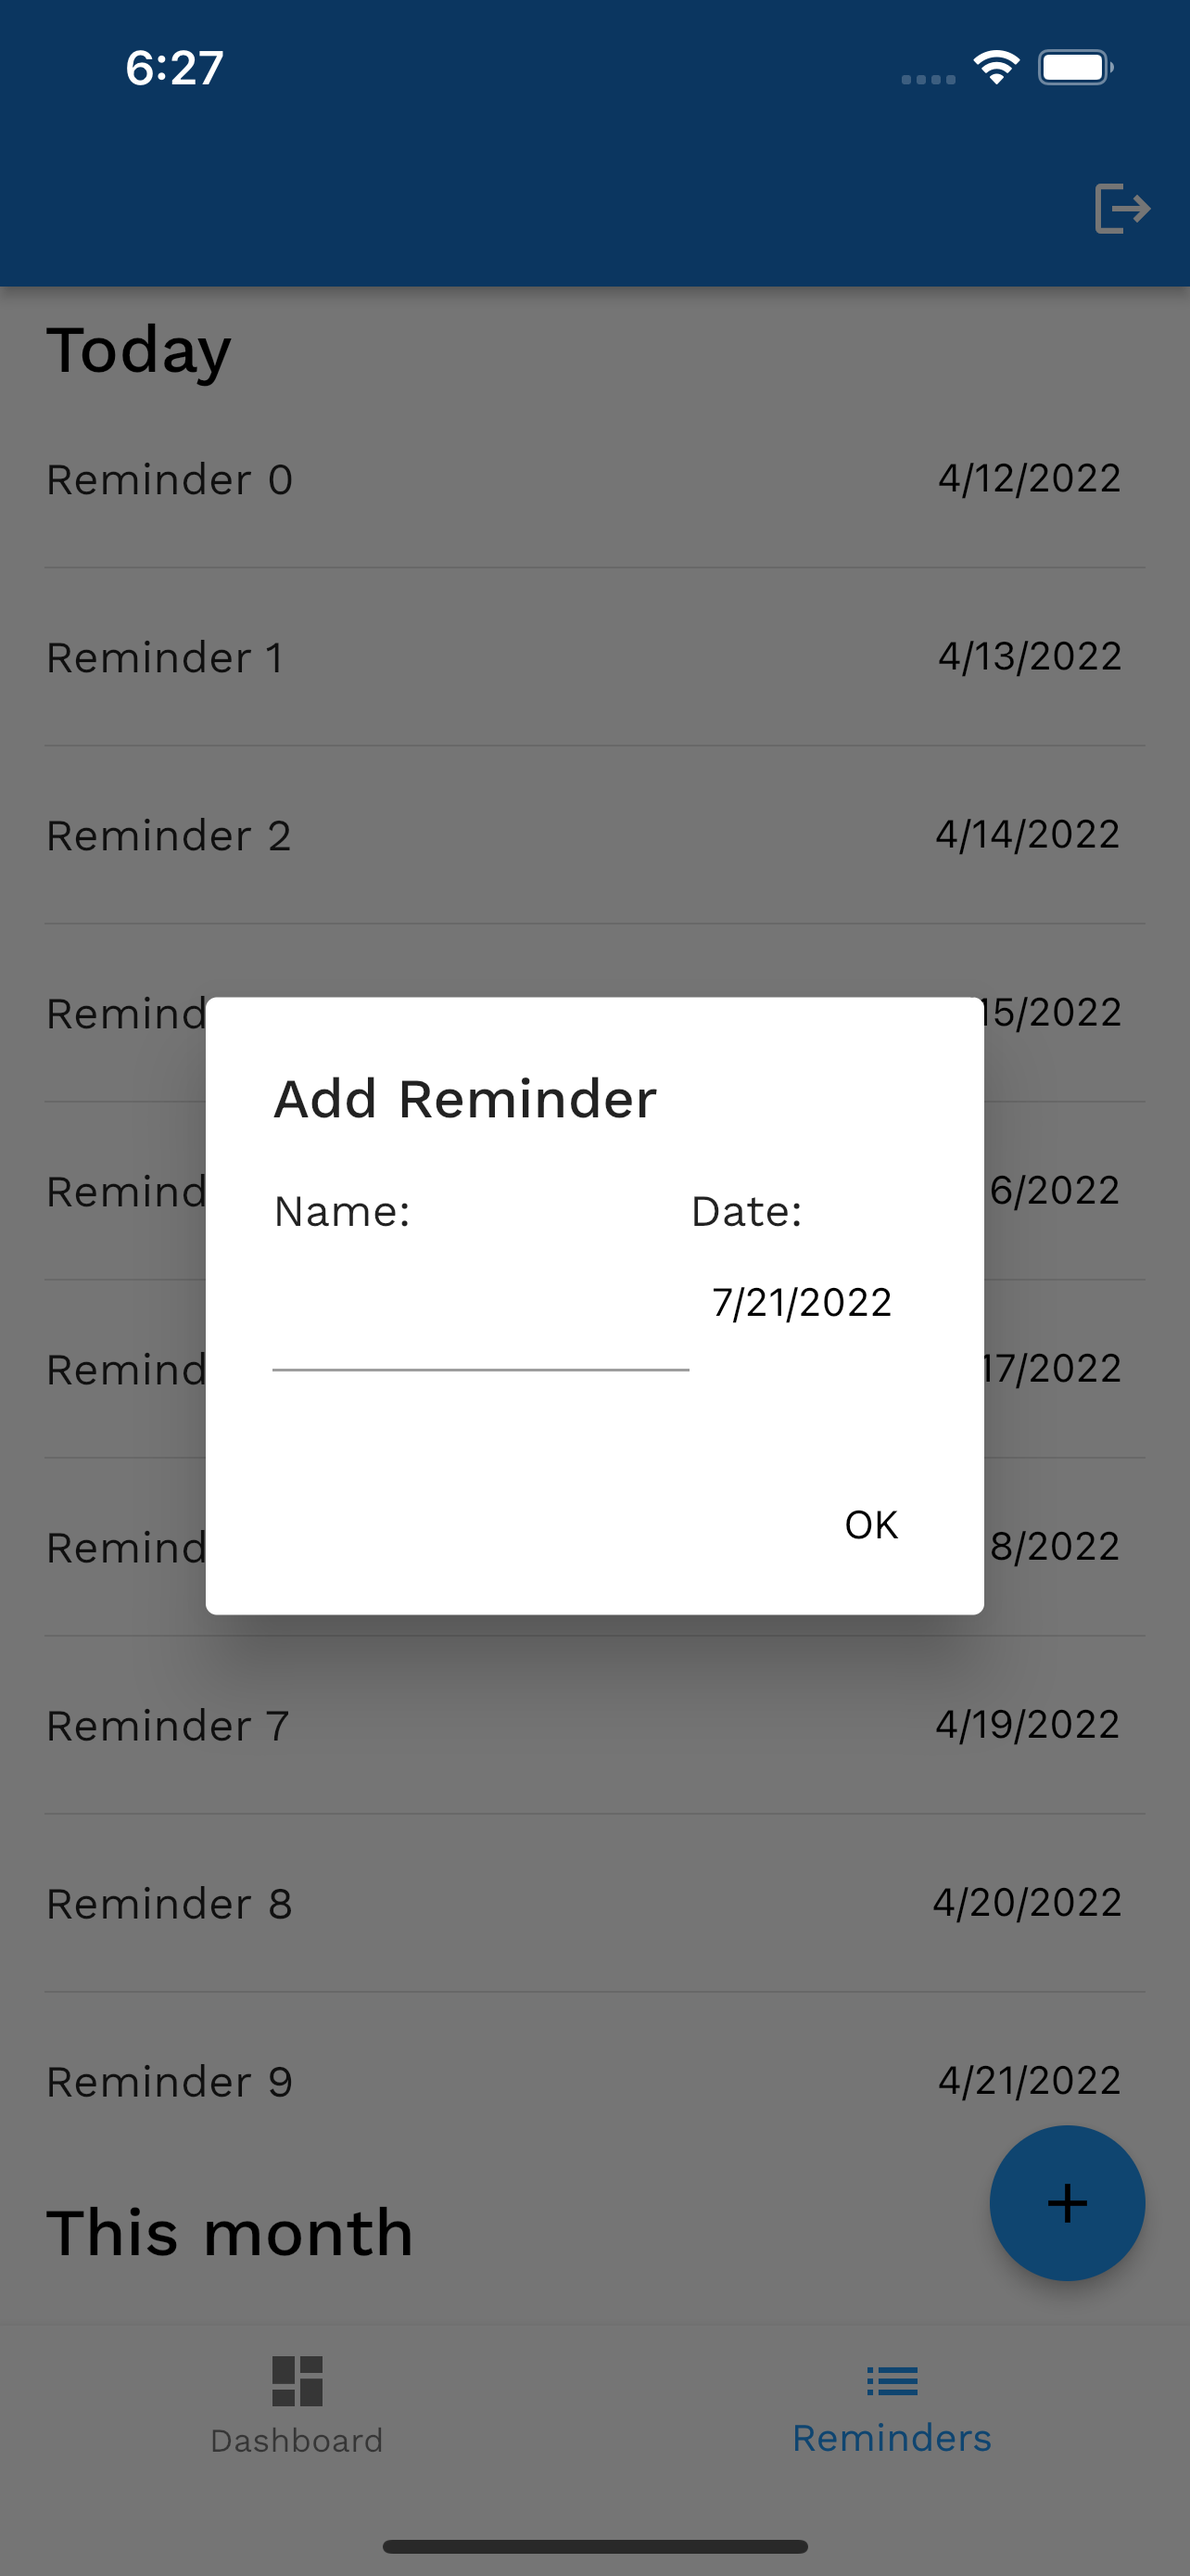
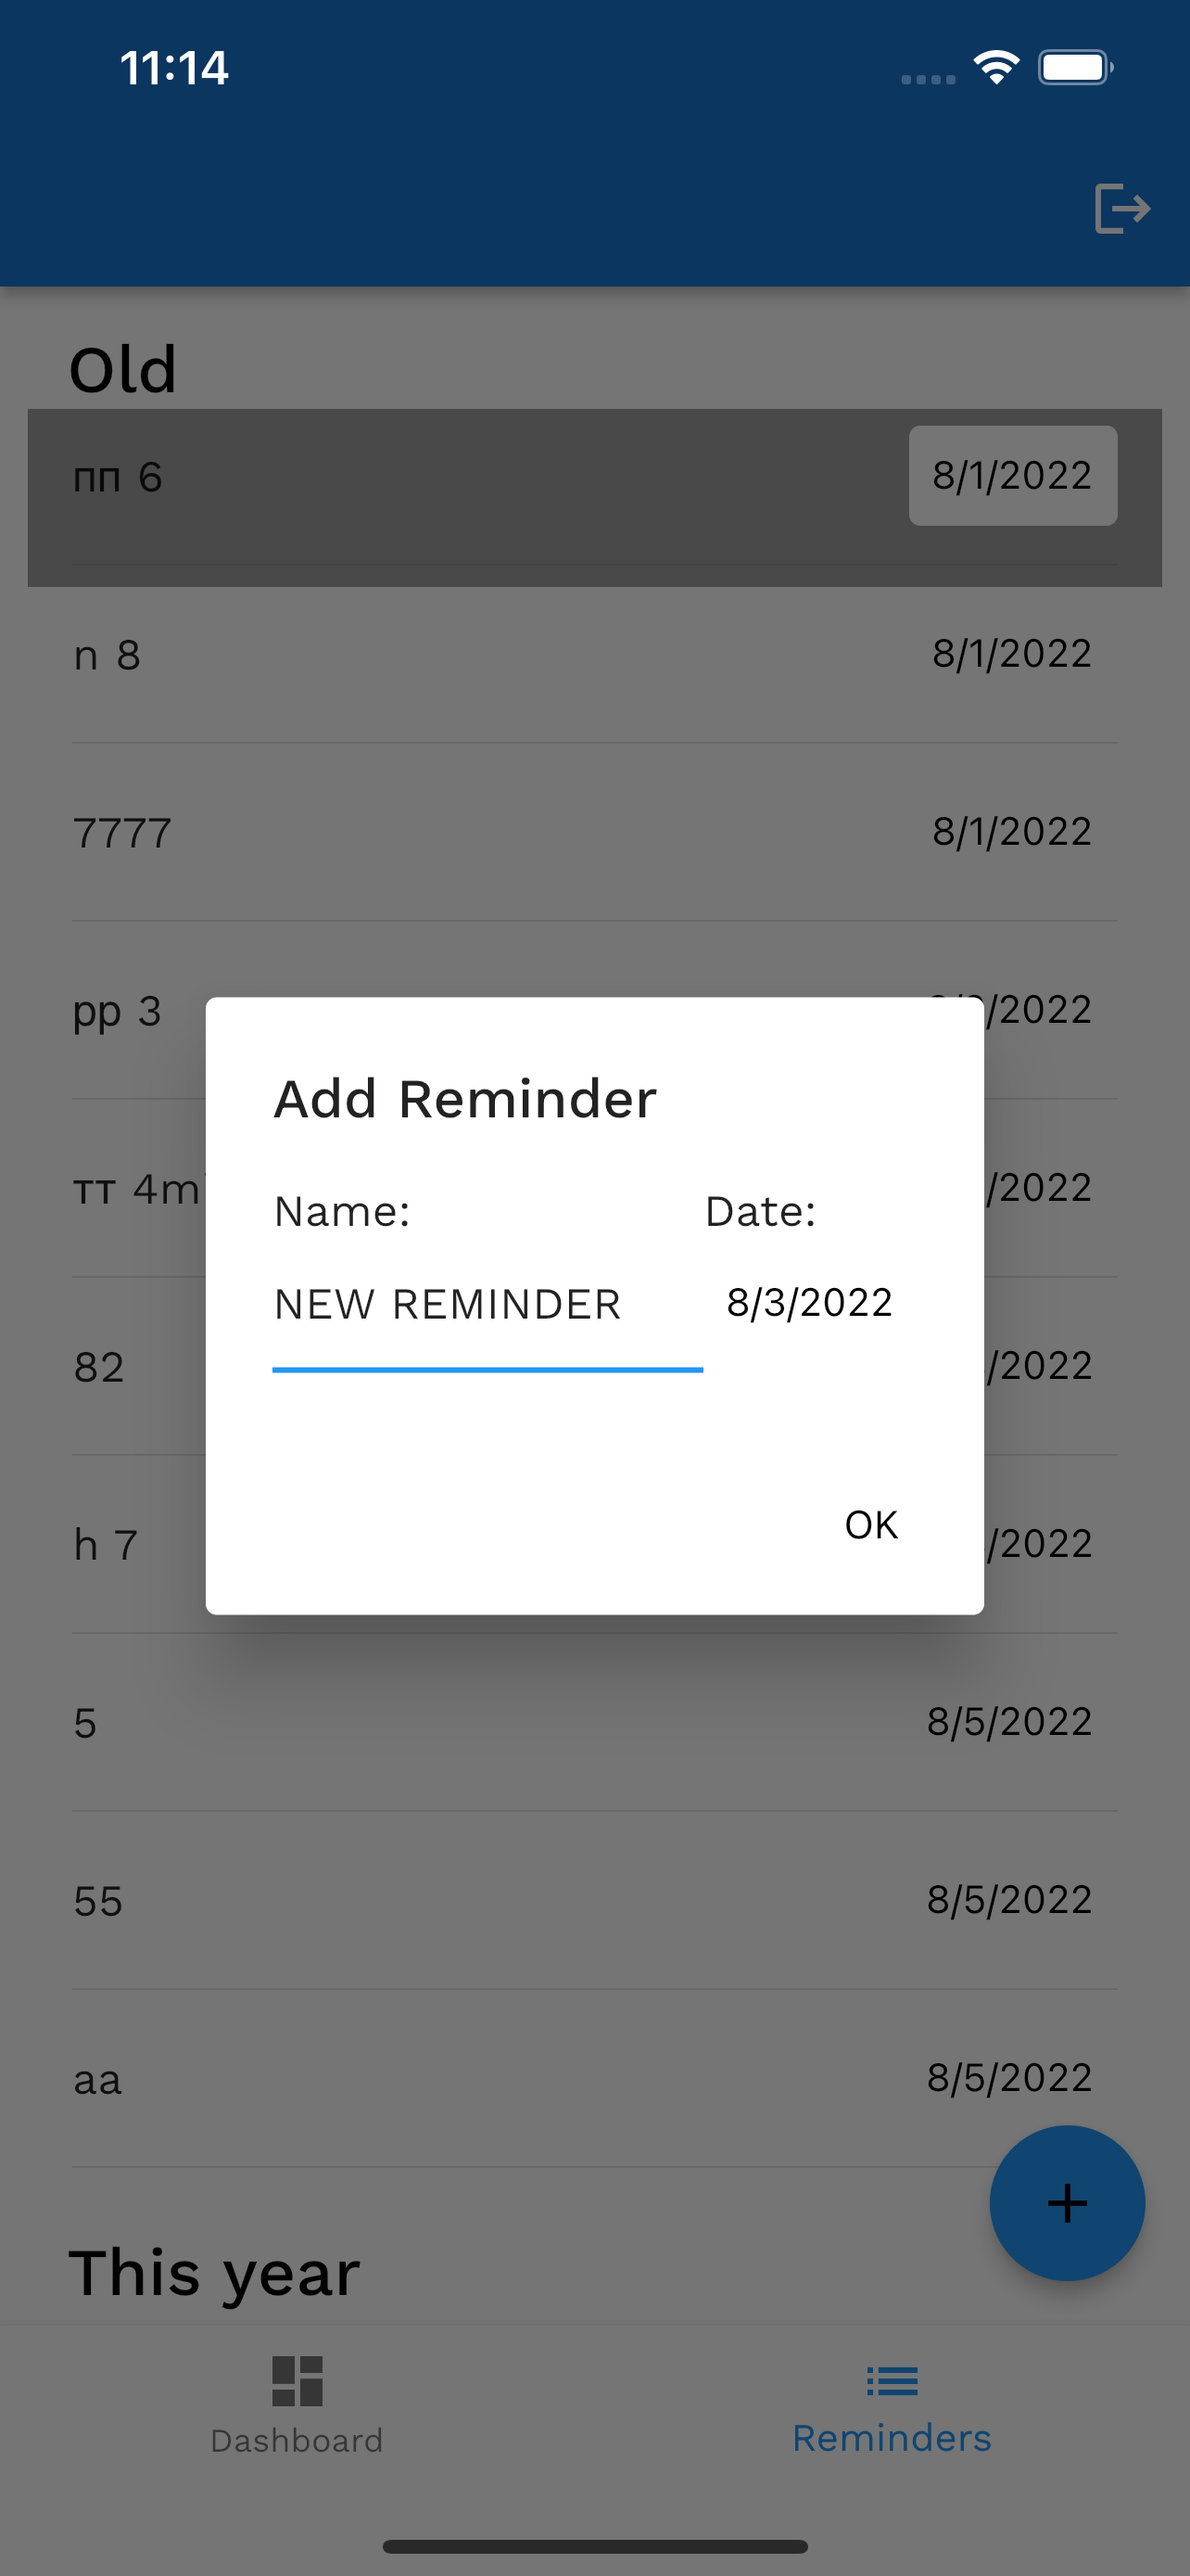
Update documentation - replace old images with new ones and update the text

diff --git a/examples/reminders/lib/base/repositories/reminders_repository.dart b/examples/reminders/lib/base/repositories/reminders_repository.dart
@@ -15,7 +15,7 @@ class RemindersRepository {
     // await Future.delayed(const Duration(milliseconds: 200));
 
     final response = await _dataSource.getAll(request);
-// await Future.delayed(const Duration(milliseconds: 20));
+// await Future.delayed(const Duration(seconds: 3));
     return PaginatedList(
       list: response.items,
       totalCount: response.totalCount,

diff --git a/examples/reminders/app_spec.md b/examples/reminders/app_spec.md
@@ -34,7 +34,7 @@ This is a user application specification of the reminders sample app.
   - User can see a counter of the incomplete reminders and a counter for the complete reminders.
   - Bellow the counters the user sees an "Overdue" list of only incomplete reminders.
   - When the page is loaded for the first time the length of the fetched list is up to 5 reminders, sorted by due date in descending order. The start date is 10 days subtracted from today and the end date is today.
-  - When a reminder id on the Dashboard page and is marked as complete, regardless from which page, it is removed from the Dashboard page.
+  - When a reminder is on the Dashboard page and it is marked as complete, regardless from which page, it is removed from the Dashboard page. Its color on the Reminders page is changed to grey.
 
 ### Pull To Refresh Dashboard List Page
 
@@ -61,7 +61,7 @@ This is a user application specification of the reminders sample app.
 <img src="assets/images/reminder_deleted.png" width="350">
 <br/><br/>
 
-  - User can tap on the Delete button. When this happens, the reminder is deleted from the list and from the data source. The incomplete counter on the dashboard page is decreased by one. A SnackBar is displayed with the name of the deleted Reminder.
+  - User can tap on the Delete button. When this happens, the reminder is deleted from the each of the lists it has been added to in the app. It is also deleted from the data source. The corresponding counter on the dashboard page is decreased by one. A SnackBar is displayed with the name of the deleted Reminder.
 
 ### Reminder Renamed
 
@@ -94,28 +94,23 @@ This is a user application specification of the reminders sample app.
 <br/><br/>
 
   - When the user pulls the list down, the first page of the list is reloaded on the screen.
+  
 
-### Reminder List Screen This month
+### Reminder List Next Page
 
-<img src="assets/images/reminder_list_this_month.png" width="350">
+<img src="assets/images/reminder_list_next_page.png" width="350">
 <br/><br/>
 
-  - When the Reminders list page is loaded a list called: "This month" is loaded, where 14 elements are fetched starting from the first date of the reminders list.
-
-### Reminder List Today Next Page
-
-<img src="assets/images/reminder_list_today_next_page.png" width="350">
-<br/><br/>
-
-  - When the user scrolls to the bottom the Reminder list page, the next page of reminders is loaded bellow the previous page of reminder in the Reminder's "Today" list.
+  - When the user scrolls to the bottom the Reminder list page, the next page of reminders is loaded bellow the previous page of reminders list.
 
 ### Reminder Incomplete
 
 <img src="assets/images/reminder_incomplete.png" width="350">
 <br/><br/>
 
-  - When a user slides a reminder after it has been marked as complete, the text in the button is changed to "Incomplete".
-  - When the user selects the "Incomplete" button, the reminder is marked as incomplete. On the dashboard page, the "Incomplete" counter is increased by one and the "Complete" counter is decreased by one.
+  - When a user slides a reminder after it has been marked as complete, the text in the button is changed to "Incomplete" and the reminder has been as "Incomplete".
+  - When the user selects the "Incomplete" button, the reminder is marked as incomplete. On the dashboard page, the "Incomplete" counter is increased by one and the "Complete" counter is decreased by one. The color is changed back to white.
+  - If the reminder date is within the last 10 days the reminder is added to the "Dashboard" page.
 
 ### Add Reminder 
 
@@ -132,4 +127,4 @@ This is a user application specification of the reminders sample app.
 <img src="assets/images/new_reminder_created_dashboard.png" width="350">
 <br/><br/>
 
-  - User can tap on the "OK" button. When doing this, the reminder is created and is appended to the reminder list, if the date of the reminder is within the last 10 days, it is added to the Dashboard page list also. A SnackBar is displayed with the name of the newly created Reminder. The reminder by default is incomplete. The incomplete counter on the Dashboard page is incremented by one.
+  - User can tap on the "OK" button. When doing this, the reminder is created and is added to the reminders list on the reminders list page to its corresponding date order. If the date of the reminder is within the last 10 days including today, it is added to the Dashboard page list also. A SnackBar is displayed with the name of the newly created Reminder. When it is created, the reminder by default is incomplete. The incomplete counter on the Dashboard page is incremented by one.
